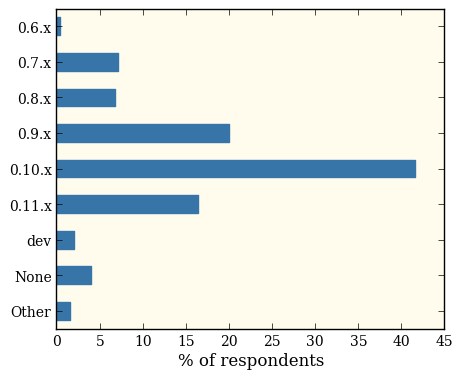
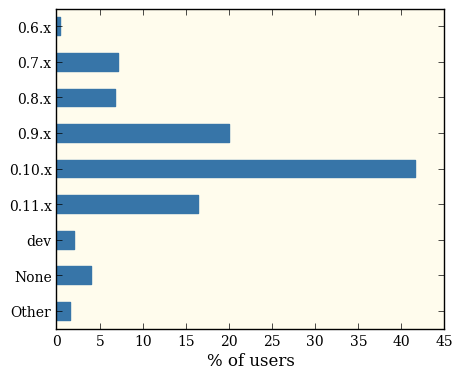
Changed respondents to users

diff --git a/plot.py b/plot.py
@@ -62,7 +62,7 @@ def make_plot(index, options, plot_name, labels=None):
     ax.patch.set_alpha(0.1)
     ax.set_ylim(ind[-1] + width * 1.5, ind[0] - width * 0.5)
 
-    ax.set_xlabel("% of respondents")
+    ax.set_xlabel("% of users")
 
     fig.savefig(os.path.join('plots', plot_name + '.png'), bbox_inches='tight')
 
